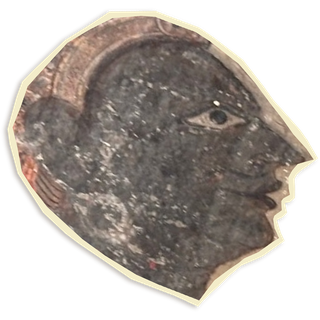
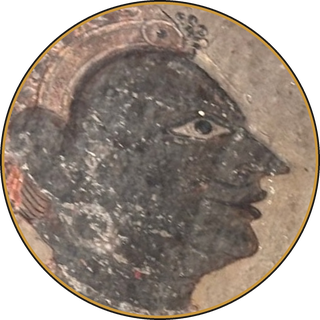
round picture on people

diff --git a/site-templates/dev/dev.css b/site-templates/dev/dev.css
@@ -109,7 +109,7 @@ body { background-image: var(--pc-grain); }
 
 ul.record-list li { border-bottom-color: color-mix(in srgb, var(--pc-ochre) 45%, transparent); }
 
-/* List pages with a picture: a cut-out from a wall painting, looking towards the title */
+/* List pages with a picture: a round detail from a wall painting, looking towards the title */
 .page__header--icon { display: grid; grid-template-columns: auto 1fr; column-gap: 1.25rem; align-items: center; }
 .page__header--icon .kind-icon { grid-row: span 3; width: clamp(5.5rem, 14vw, 9rem); height: auto; }
 .page__header--icon .page__count { grid-column: 2; }
